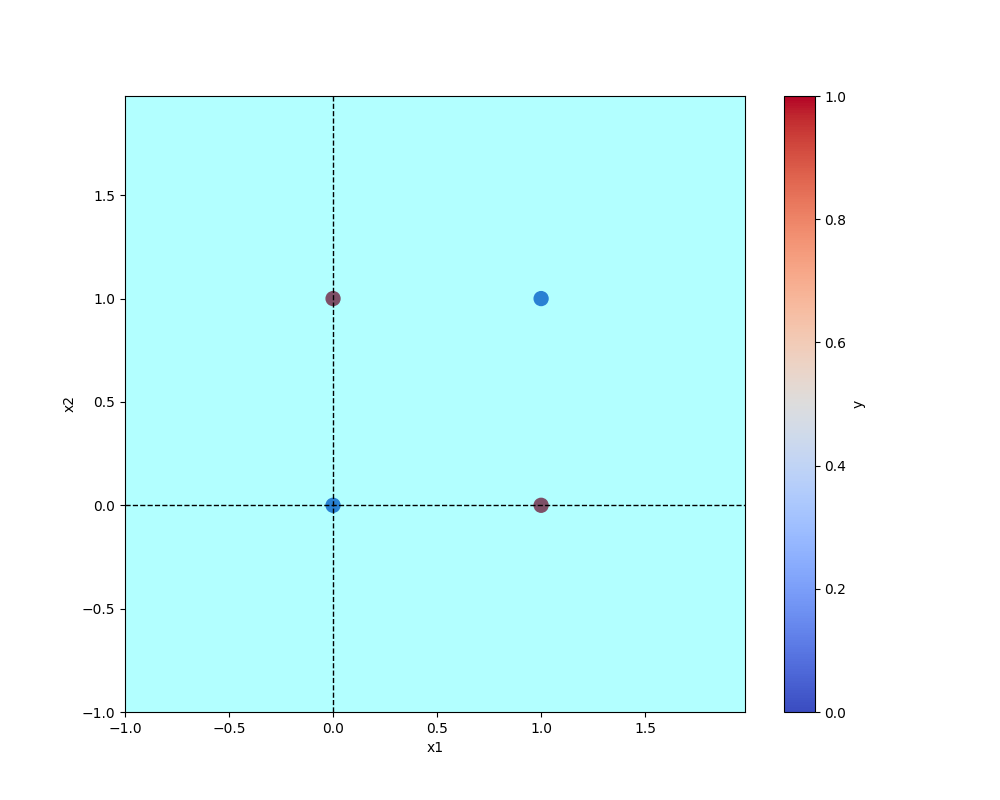
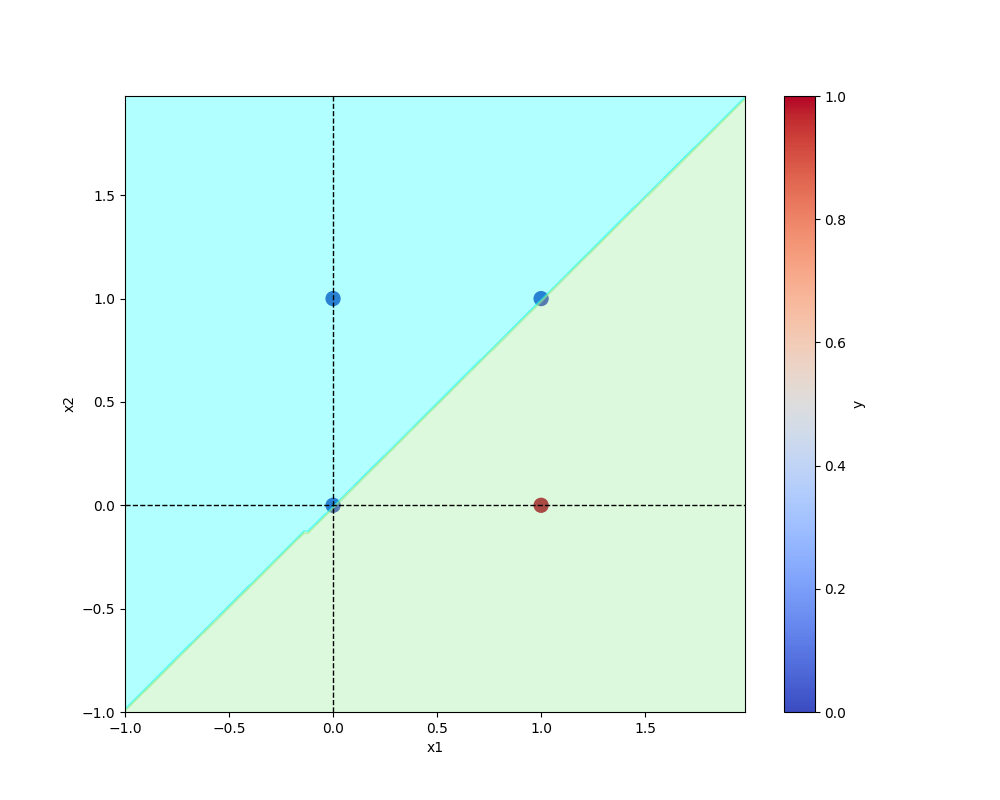
Staged Changes

Changed region(s): [[0.124, 0.125, 0.744, 0.9062], [0.31, 0.3438, 0.341, 0.375]]

diff --git a/utils/model.py b/utils/model.py
@@ -1,13 +1,26 @@
 import numpy as np
 import os
 import joblib
+import logging
+
+log_dir = "logs"
+os.makedirs(log_dir,exist_ok=True)
+
+logging.basicConfig(
+    level=logging.INFO,
+    filename=os.path.join(log_dir,"running_logs.log"),
+    format='[%(asctime)s : %(levelname)s: %(module)s]: %(message)s',
+    filemode='a'
+)
 
 class Perceptron:
+
     def __init__(self, eta: float=None, epochs: int=None):
+        
         self.weights = np.random.randn(3) * 1e-4 # small random weights
         training = (eta is not None) and (epochs is not None)
         if training:
-            print(f"initial weights before training: \n{self.weights}\n")
+            logging.info(f"initial weights before training: \n{self.weights}\n")
         self.eta = eta
         self.epochs = epochs
     
@@ -22,33 +35,34 @@ class Perceptron:
         self.y = y
         
         X_with_bias = np.c_[self.X, -np.ones((len(self.X), 1))]
-        print(f"X with bias: \n{X_with_bias}")
+        logging.info(f"X with bias: \n{X_with_bias}")
         
         for epoch in range(self.epochs):
-            print("--"*10)
-            print(f"for epoch >> {epoch}")
-            print("--"*10)
+            logging.info("--"*10)
+            logging.info(f"for epoch >> {epoch}")
+            logging.info("--"*10)
             
             z = self._z_outcome(X_with_bias, self.weights)
             y_hat = self.activation_function(z)
-            print(f"predicted value after forward pass: \n{y_hat}")
+            logging.info(f"predicted value after forward pass: \n{y_hat}")
             
             self.error = self.y - y_hat
-            print(f"error: \n{self.error}")
+            logging.info(f"error: \n{self.error}")
             
             self.weights = self.weights + self.eta * np.dot(X_with_bias.T, self.error)
-            print(f"updated weights after epoch: {epoch + 1}/{self.epochs}: \n{self.weights}")
-            print("##"*10)
+            logging.info(f"updated weights after epoch: {epoch + 1}/{self.epochs}: \n{self.weights}")
+            logging.info("##"*10)
             
     
     def predict(self, X):
         X_with_bias = np.c_[X, -np.ones((len(X), 1))]
         z = self._z_outcome(X_with_bias, self.weights)
+        logging.info(f"Prediction is {self.activation_function(z)}")
         return self.activation_function(z)
     
     def total_loss(self):
         total_loss = np.sum(self.error)
-        print(f"\ntotal loss: {total_loss}\n")
+        logging.info(f"\ntotal loss: {total_loss}\n")
         return total_loss
     
     def _create_dir_return_path(self, model_dir, filename):
@@ -59,9 +73,11 @@ class Perceptron:
         if model_dir is not None:
             model_file_path = self._create_dir_return_path(model_dir, filename)
             joblib.dump(self, model_file_path)
+            
         else:
             model_file_path = self._create_dir_return_path("model", filename)
             joblib.dump(self, model_file_path)
     
     def load(self, filepath):
+        logging.info("Model Loaded successfully !!!")
         return joblib.load(filepath)

diff --git a/xnor.py b/xnor.py
@@ -1,0 +1,66 @@
+import pandas as pd
+import numpy as np
+import logging
+import os
+from utils.all_utils import prepare_data,save_plot
+from utils.model import Perceptron
+
+log_dir = "logs"
+os.makedirs(log_dir,exist_ok=True)
+
+logging.basicConfig(
+    level=logging.INFO,
+    filename=os.path.join(log_dir,"running_logs.log"),
+    format='[%(asctime)s : %(levelname)s: %(module)s]: %(message)s',
+    filemode='a'
+)
+
+def main(data, eta, epochs, modelname, plotname):
+
+    df = pd.DataFrame(data)
+    logging.info(f"This is the raw dataset : \n{df}")
+
+    X,y = prepare_data(df)
+    logging.info(f"X is : \n{X} and y is : \n{y}")
+
+    model = Perceptron(eta=eta, epochs=epochs)
+    logging.info("Model created successfully !!!")
+
+    model.fit(X,y)
+    logging.info("Model fited successfully !!!")
+
+    logging.info(f"Total Model Loss is : {model.total_loss()}")
+
+    model.save(filename=modelname)
+    logging.info("Model saved successfully !!!")
+
+    save_plot(df, model=model, filename=plotname)
+    logging.info("Prediction plot created and saved successfully !!!")
+
+
+if __name__ == "__main__":
+
+    XNOR = {
+        "x1":[0,0,1,1],
+        "x2":[0,1,0,1],
+        "y":[1,0,0,1]
+    }
+
+    ETA = 0.01
+    EPOCHS = 10
+    MODELNAME = "XNOR.model"
+    PLOTNAME = "xnor_result.png"
+
+    try:
+
+        logging.info("-----------------Training started-----------------")
+        logging.info(f"Given parameter values ETA : {ETA} EPOCHS : {EPOCHS} MODELNAME : {MODELNAME} PLOTNAME : {PLOTNAME}")
+        main(XNOR, eta=ETA, epochs=EPOCHS, modelname=MODELNAME, plotname=PLOTNAME)
+        logging.info("-----------------Training completed---------------\n\n")
+
+    except Exception as e:
+
+        logging.exception(e)
+        raise e
+
+    

diff --git a/utils/all_utils.py b/utils/all_utils.py
@@ -2,8 +2,20 @@ from matplotlib import pyplot as plt
 from matplotlib.colors import ListedColormap
 import os
 import numpy as np
+import logging
+
+log_dir = "logs"
+os.makedirs(log_dir,exist_ok=True)
+
+logging.basicConfig(
+    level=logging.INFO,
+    filename=os.path.join(log_dir,"running_logs.log"),
+    format='[%(asctime)s : %(levelname)s: %(module)s]: %(message)s',
+    filemode='a'
+)
 
 def prepare_data(df, target_col="y"):
+
     X = df.drop(target_col, axis=1)
     
     y = df[target_col]
@@ -13,6 +25,7 @@ def prepare_data(df, target_col="y"):
 def save_plot(df, model, filename="plot.png", plot_dir="plots"):
     
     def _create_base_plot(df):
+
         df.plot(kind="scatter", x="x1", y="x2", c="y", s=100, cmap="coolwarm")
         plt.axhline(y=0, color="black", linestyle="--", linewidth=1)
         plt.axvline(x=0, color="black", linestyle="--", linewidth=1)
@@ -51,3 +64,4 @@ def save_plot(df, model, filename="plot.png", plot_dir="plots"):
     os.makedirs(plot_dir, exist_ok=True)
     plot_path = os.path.join(plot_dir, filename)
     plt.savefig(plot_path)
+    
